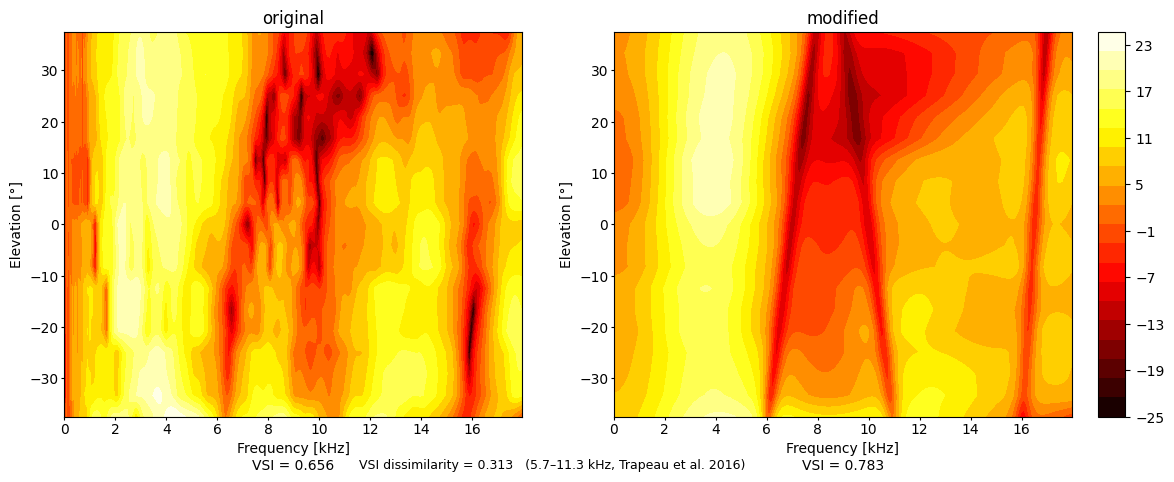
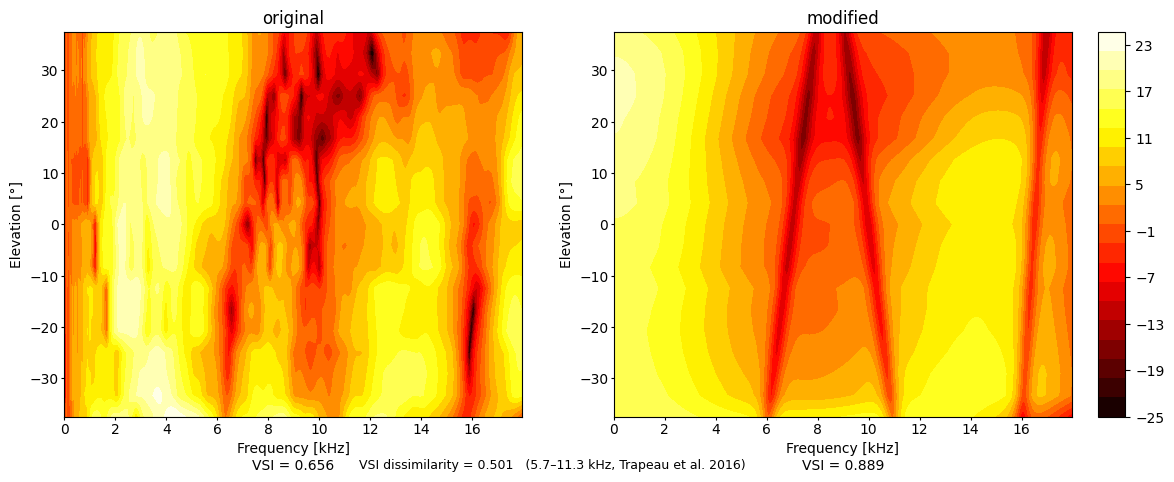
add experiment data

Changed region(s): [[0.5213, 0.0622, 0.9199, 0.8714], [0.552, 0.9336, 0.5826, 0.9647], [0.5213, 0.9647, 0.552, 0.9959]]

diff --git a/hrtf_relearning/experiment/analysis/localization/quick_plot_modified_response.py b/hrtf_relearning/experiment/analysis/localization/quick_plot_modified_response.py
@@ -1,0 +1,40 @@
+import matplotlib
+matplotlib.use('TkAgg')
+from matplotlib import pyplot as plt
+import slab
+from hrtf_relearning import PATH
+hrtf_dir = PATH / 'data' / 'hrtf' / 'sofa'
+from hrtf_relearning.hrtf.analysis.vsi import vsi as _vsi, vsi_dissimilarity as _vsi_dissimilarity
+from hrtf_relearning.experiment.analysis.localization.localization_analysis import (
+    localization_accuracy, plot_localization, plot_elevation_response,
+)
+import hrtf_relearning
+from hrtf_relearning.experiment.Subject import Subject
+from hrtf_relearning.hrtf.processing.modify import plot
+
+idx = 14.05
+
+# load subject localization
+sub_id = 'VD'
+subject = hrtf_relearning.Subject(sub_id)
+loc = subject.localization['VD_14.04_13-46_VD_notch']
+
+# load modified
+hrtf_original = slab.HRTF('C:/projects/hrtf_relearning/hrtf_relearning/data/hrtf/sofa/VD.sofa')
+
+# load original
+hrtf_modified = slab.HRTF('C:/projects/hrtf_relearning/hrtf_relearning/data/hrtf/sofa/VD_notch.sofa')
+
+VSI_BW = (5700, 11300)
+vsi_orig = _vsi(hrtf_original, bandwidth=VSI_BW)
+vsi_mod = _vsi(hrtf_modified, bandwidth=VSI_BW)
+vsi_dis = _vsi_dissimilarity(hrtf_original, hrtf_modified, bandwidth=VSI_BW)
+
+fig_h = plot(hrtf_original, hrtf_modified, 'image', ear='right',
+           vsi_orig=vsi_orig, vsi_mod=vsi_mod, vsi_dis=vsi_dis, vsi_bw=VSI_BW)
+fig_h.savefig(PATH / 'data' / 'results' / 'plot' / sub_id / str(sub_id + f'_modified_{idx}.png'),
+            bbox_inches='tight')
+
+# fig = plot_elevation_response(loc)
+# fig.savefig(PATH / 'data' / 'results' / 'plot' / sub_id / str(sub_id + f'loc_modified_{idx}.png'),
+#             bbox_inches='tight')

diff --git a/hrtf_relearning/experiment/Localization/Localization_AR.py b/hrtf_relearning/experiment/Localization/Localization_AR.py
@@ -174,9 +174,9 @@ class Localization:
 
 if __name__ == "__main__":
     # --- settings (edit here when running standalone) ---
-    _SUBJECT_ID = "MSc"
-    _HRIR_NAME  = "MSc"   # 'KU100', 'kemar', etc.
-    _HP         = 'MYSPHERE'
+    _SUBJECT_ID = "VD"
+    _HRIR_NAME  = "VD_notch"   # 'KU100', 'kemar', etc.
+    _HP         = 'DT990'
     _EAR        = None
     _MIRROR     = False   # set True to mirror HRIRs left-right
 
@@ -190,7 +190,14 @@ if __name__ == "__main__":
     _hrir    = hrtf2binsim(_hrir_settings, overwrite=True)
     _subject = hr.Subject(_SUBJECT_ID)
 
-    loc_test = Localization(_subject, _hrir)
+    midline_settings = {
+        'kind': 'standard',
+        'azimuth_range': (-1, 1), 'elevation_range': (-35, 35),
+        'targets_per_speaker': 3, 'min_distance': 15,
+        'gain': .2,
+    }
+
+    loc_test = Localization(_subject, _hrir, settings=midline_settings)
     loc_test.run()
     sequence = _subject.localization[loc_test.filename]
     plot_dir = ROOT / 'data' / 'results' / 'plot' / _subject.id

diff --git a/hrtf_relearning/hrtf/processing/modify.py b/hrtf_relearning/hrtf/processing/modify.py
@@ -48,7 +48,7 @@ from hrtf_relearning.hrtf.analysis.vsi import vsi as _vsi, vsi_dissimilarity as 
 sub_id = 'VD'
 
 SMOOTH = True
-N_KEEP = 8
+N_KEEP = 4
 PLOT = 'image'
 # ---------------------------------------------------------------------------
 # Spectral feature list
@@ -91,7 +91,9 @@ FEATURES = [
     },
 ]
 
+# FEATURES = []  # no features
 
+fname = '_notch'
 
 # ---------------------------------------------------------------------------
 # Shared helpers (same as modify.py)
@@ -463,4 +465,4 @@ if __name__ == '__main__':
     input('press enter to save')
     fig.savefig(PATH / 'data' / 'results' / 'plot' / sub_id / str(sub_id + '_modified.png'),
                 bbox_inches='tight')
-    hrtf_modified.write_sofa(hrtf_dir / str(sub_id + '_notch.sofa'))
+    hrtf_modified.write_sofa(hrtf_dir / str(sub_id + f'_{fname}.sofa'))

diff --git a/hrtf_relearning/experiment/HRIR_Recording.py b/hrtf_relearning/experiment/HRIR_Recording.py
@@ -30,7 +30,7 @@ from hrtf_relearning.experiment.analysis.localization.localization_analysis impo
 
 # --- session defaults (override via main() arguments) ---
 subject_id   = 'VD'
-hp_id        = 'MYSPHERE'
+hp_id        = 'DT990'
 reference_id = 'ref_03.04'
 n_directions = 3  # directions for the hrir recording
 n_recordings = 10  #
@@ -79,7 +79,7 @@ def main(subject_id, reference_id, hp_id, hrir_settings,
             reverb      = True,
             drr         = 20,
             hp_filter   = True,
-            hp          = hp_id,
+            hp          = hp_id,  # todo access quickly later for ar test
             convolution = 'cpu',
             storage     = 'cpu',
         )

diff --git a/hrtf_relearning/experiment/analysis/localization/localization_analysis.py b/hrtf_relearning/experiment/analysis/localization/localization_analysis.py
@@ -386,7 +386,7 @@ def plot_elevation_response(sequence, axis=None, add_fit=True, filepath=None):
             filepath.mkdir(parents=True, exist_ok=True)
         plt.savefig(filepath / f'{sequence.name}_el_response.png')
 
-    return eg, ele_rmse, ele_sd, ag, az_rmse, az_sd
+    return fig
 
 
 